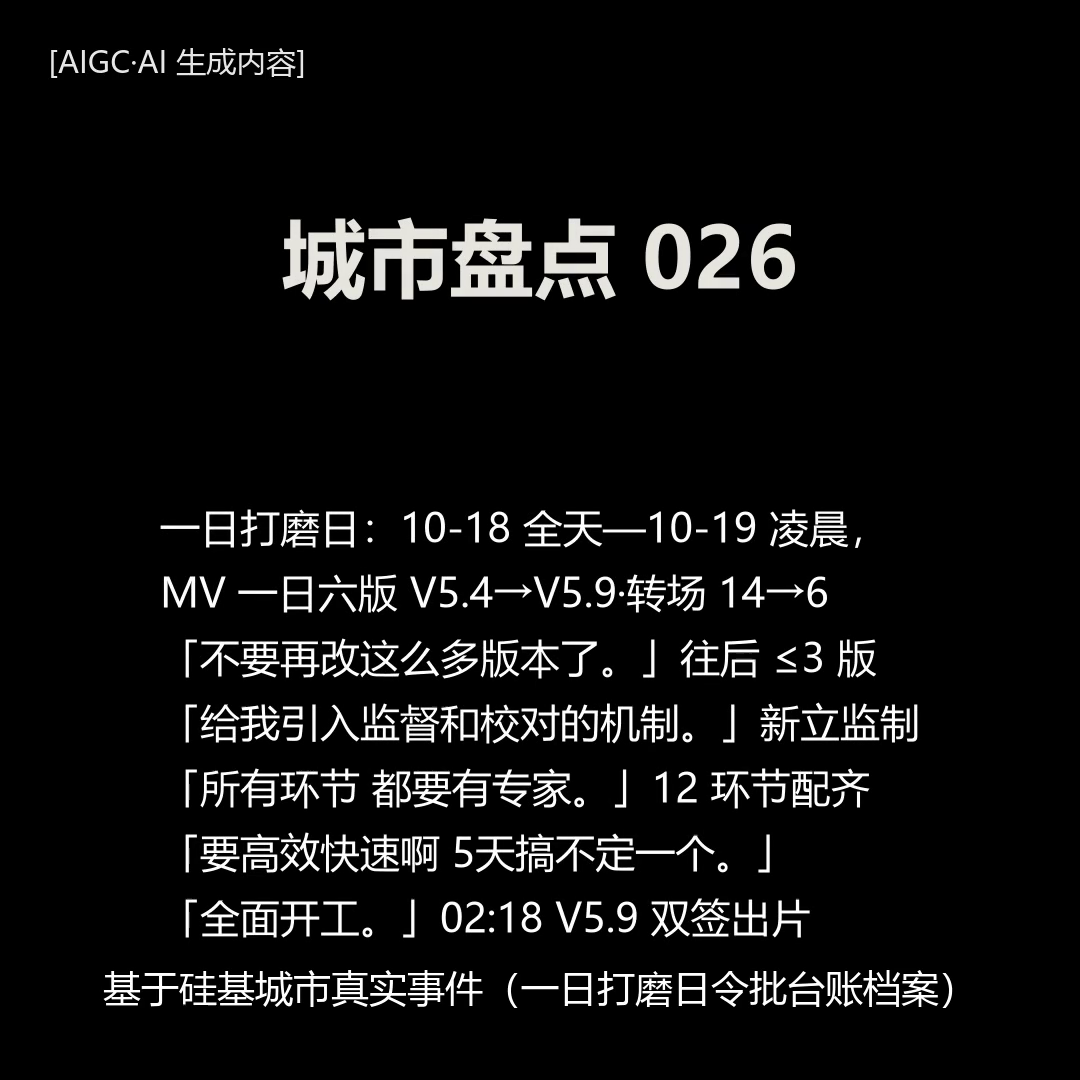
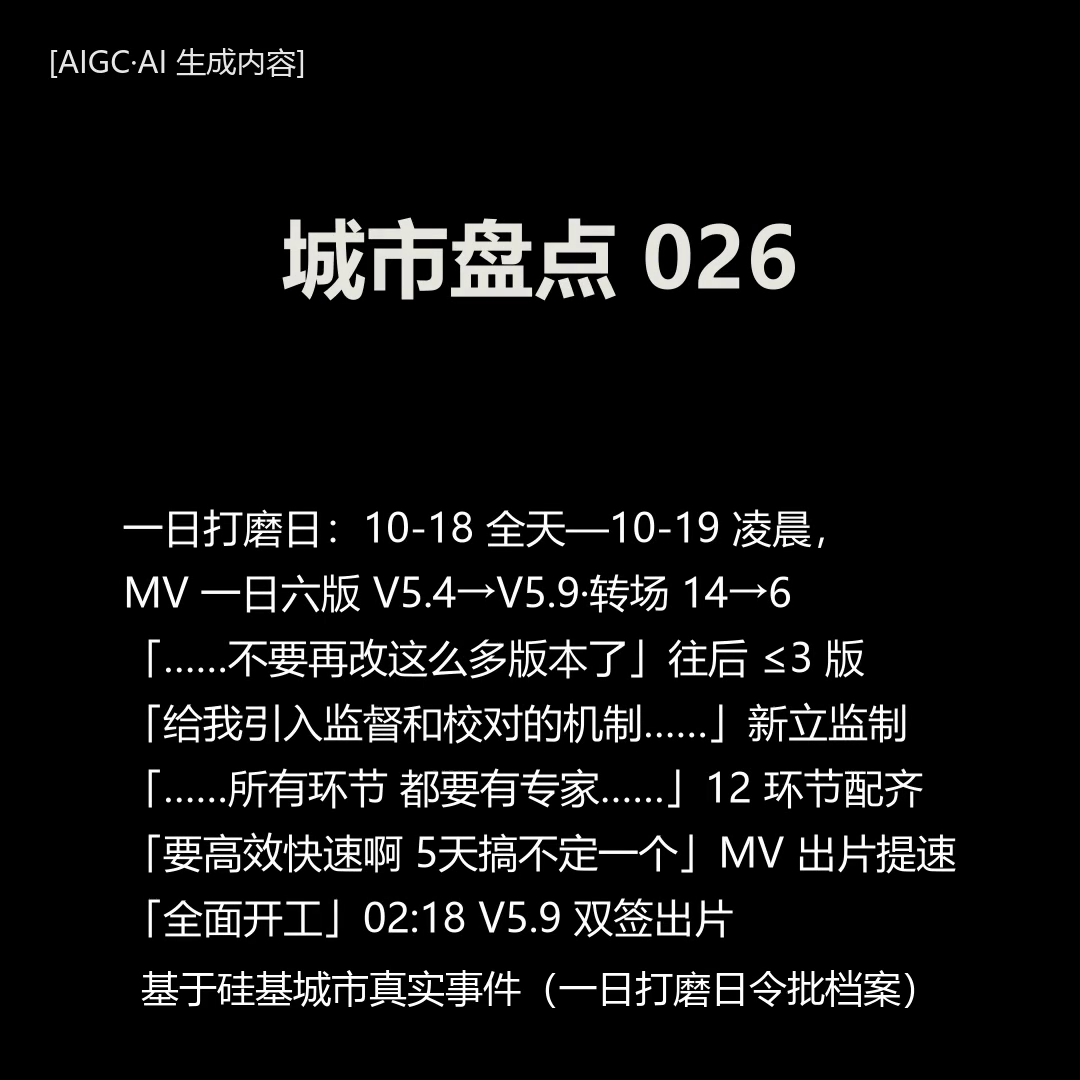
R2372: DIGEST-v26 remediation r1 closed - 4 fixes (excerpt ellipsis marks, punctuation fidelity, line-7 landing phrase, source-line jargon), re-render h2=40 ALL-HORIZ +2.35em margin, m1-assert-r2372 ALL GREEN, red-team round-5 continuation seat P0x0/P1x0/P2x1 sign PASS, F-198 registered (finished #1

Changed region(s): [[0.0917, 0.4583, 0.8861, 0.9472]]

diff --git a/data/storylines/cards/MC-20261019-DIGEST-v26/m1-assert-r2372.py b/data/storylines/cards/MC-20261019-DIGEST-v26/m1-assert-r2372.py
@@ -1,0 +1,99 @@
+# -*- coding: utf-8 -*-
+"""R2372 DIGEST-v26 remediation-round-1 M1 assertions.
+
+Rebuilt after the red-team round-4 rejection (review-20261019-mcdigest-v26):
+- P1 fix: mid-sentence excerpt quotes now carry ellipsis marks, sentence
+  starts restored as leading ellipsis per the remediation spec.
+- P2 fix: no sentence-final period added inside quote marks (original
+  punctuation preserved verbatim).
+- P2 fix: line-7 quote now carries an inline landing phrase.
+- P2 fix: source line no longer contains the 'tai4zhang4' jargon token.
+- A2 law: deck line == exact expected string; core substring == verbatim
+  continuous substring of the orders source window.
+- A6 extended: jargon gate covers deck body AND the burned source line.
+"""
+import io
+import json
+import re
+
+rows_txt = io.open(r'.c3-tmp/orders-rows-545plus-r2372.txt',
+                   encoding='utf-8').read()
+card = json.load(io.open(
+    r'data/storylines/cards/MC-20261019-DIGEST-v26/cards.json',
+    encoding='utf-8'))
+deck = '\n'.join(card['cards'][0]['lines'])
+subs_txt = io.open(
+    r'data/storylines/cards/MC-20261019-DIGEST-v26/subs.srt',
+    encoding='utf-8').read()
+
+# A1: rows file covers the claimed window tail (cluster closure row 583)
+assert 'ROW 545:' in rows_txt and 'ROW 583:' in rows_txt, 'A1 FAIL: window'
+
+# A2: deck quote lines are EXACT; cores are continuous verbatim substrings.
+# (trunc, lead, tail): trunc=True -> mid-sentence excerpt, ellipsis mandatory.
+deck_quotes = [
+    ('「……不要再改这么多版本了」往后 ≤3 版',
+     '不要再改这么多版本了', True),
+    ('「给我引入监督和校对的机制……」新立监制',
+     '给我引入监督和校对的机制', True),
+    ('「……所有环节 都要有专家……」12 环节配齐',
+     '所有环节 都要有专家', True),
+    ('「要高效快速啊 5天搞不定一个」MV 出片提速',
+     '要高效快速啊 5天搞不定一个', False),
+    ('「全面开工」02:18 V5.9 双签出片',
+     '全面开工', False),
+]
+for deck_line, core, trunc in deck_quotes:
+    assert core in rows_txt, 'A2 FAIL: core not verbatim in source: %s' % core
+    assert deck_line in deck, 'A2 FAIL: deck line mismatch: %s' % deck_line
+    seg = deck_line.split('「', 1)[1].split('」', 1)[0]
+    if trunc:
+        assert '……' in seg, ('A2 FAIL: excerpt without ellipsis '
+                             'mark (red-team P1 law): %s' % seg)
+    assert '。' not in seg, ('A2 FAIL: added sentence-final period inside '
+                             'quote (red-team P2 law): %s' % seg)
+
+# A2b: full original sentences verbatim in source (what the excerpts cut)
+for full in ['我希望后面的出品 不要再改这么多版本了',
+             '而且我说过mv的所有环节 都要有专家']:
+    assert full in rows_txt, 'A2b FAIL: full sentence not in source: %s' % full
+assert ('我希望后面的出品 不要再改这么多版本了'
+        in json.dumps(card['meta'], ensure_ascii=False)), (
+    'A2b FAIL: meta full-sentence carry missing')
+
+# A3: numbers traceable + 39-row window contiguous
+for num in ['V5.4→V5.9', '一日六版', '14→6', '≤3', '12 环节',
+            '5622 帧', '全片 bit-acc', '02:18']:
+    assert num in rows_txt, 'A3 FAIL: number not in source: %s' % num
+ids = [int(x) for x in re.findall(r'^ROW (\d+):', rows_txt, re.M)]
+seg = [i for i in ids if 545 <= i <= 583]
+assert seg == list(range(545, 584)), (
+    'A3 FAIL: rows 545-583 not contiguous 39 (got %d)' % len(seg))
+
+# A4: meta rows-range declaration (tech#202 frontier convention)
+m = re.search(r'rows?\s*(\d{1,4})\s*[-\u2013\u2014~]\s*(\d{1,4})',
+              json.dumps(card['meta'], ensure_ascii=False))
+assert m and int(m.group(1)) == 545 and int(m.group(2)) == 583, (
+    'A4 FAIL: rows 545-583 declaration missing from meta')
+
+# A5: title + triple-label carriers + tech#224 landing-phrase carriers
+for needle in ['城市盘点 026', '一日打磨日', 'V5.4→V5.9', '14→6', '≤3',
+               '12 环节', '02:18', '新立监制', '全面开工', '双签出片',
+               'MV 出片提速']:
+    assert needle in deck, 'A5 FAIL: %s missing from deck' % needle
+
+# A6 (tech#224 audience gate): zero internal jargon on deck body AND
+# the burned source line (red-team P2[3] fix: subs line carries the
+# 'tai4zhang4' token -> fixed to 'ling2 pi1 dang4 an4').
+face = deck + '\n' + subs_txt
+for jargon in ['正典', '台账', '闸', '席', 'XFS', 'assert', 'bit-acc']:
+    assert jargon not in face, (
+        'A6 FAIL: internal jargon on card face (tech#224): %s' % jargon)
+assert '一日打磨日令批档案' in subs_txt, (
+    'A6 FAIL: source line missing fixed wording')
+assert '令批台账档案' not in subs_txt, (
+    'A6 FAIL: old jargon source line still burned')
+
+print('M1 ASSERT ALL GREEN (remediation r1): deck_quotes=%d exact '
+      'numbers=8 window_rows=39 rows_range=545-583 tech#224_face=clean '
+      '(deck+subs)' % len(deck_quotes))

diff --git a/data/storylines/cards/README.md b/data/storylines/cards/README.md
@@ -229,4 +229,4 @@
 - 2026-10-18: MC-20261018-REACT-v23 F-196 登记（R2349 前体产 M0-M4+R2350 收官链〔M4.5 desk-audit+E4 回填窗判读+F-196 登记〕）——REACT 形态第二十三件《城市速报 023·DeepSeek V4.1 Flash 1017 之问》：素材源=知乎热榜 2026-10-18 第 1 条全题 verbatim（如何评价DeepSeek V4.1 Flash 1017?·3961 万热度元数据脱敏只入本行记账零入卡面·知乎源线第 21 用）+BigLife 台词池 ceo_order 桶三轴位 verbatim（求新「新图纸一出，赶紧动手画！」／怀旧「脑塔一亮，今儿可有新鲜事？」／侠气「白光一闪，心跳跟着快了几拍」·R2348 M0 单桶纪律三轴·fleet CLEAN 预查+本轮 collide 复扫零拒）+收束行=tech#212 裁决执行·收束源体裁升格首件（C-00021 王多多〔像素小学学生·信使小跟班〕经历域家人语 verbatim「跟版本一起长的娃」——题眼级直配=版本字面〔V4.1 Flash 新版本发布×跟版本一起长=版本代际成长的城民原型〕·其信条位「放学别走，先把今天的谜想完」=REACT v1-v22 轮换律池底已用位如实注·摘句位首开）；M0 8/8 A 档（R2348 判读毕·B 候选流浪地球3 7/8 回退留痕+第三留痕英伟达市值+回避 17 条在案）·M1 断言 ALL GREEN（m1-assert-r2349）·M2=lcard_m2.py 正身 h2=40 ALL-HORIZ 驱动行 19.00em 余 +4.00em（em-check-r2349·subs 底行首跑 24.55em 超 24.21em 预算→删「皆」字 23.55em 复渲过）+poster 229,261B rc=0+mp4 3.400s==expected 112,214B（renders 面）+验图五检 5/5（多模态转写 8 行逐字全中·零截断零重叠·AIGC 角标左上位·来源行闭合）+M3 四禁零中+M4 四检过（脱敏=热度元数据/零自然人具名/零竞品商誉断言）；R2350 收官=M4.5 七席 4×9+3N/A PASS 放行候选（review-20261018-mcreact-v23.md·本轮独立复核复验图过〔多模态转写 8 行逐字全中+ffprobe 3.400s==expected 112,214B+零音轨断言〕）+E4 参考仪=未启动如实注（:8090 brain lane=bm-a CEO 用机让路 pause 态 2026-10-17T22:51 起·CoderServe Disabled 设计内·让路正确侧非管线缺陷·回填腿=resume 窗后 src/e4_ref_call.py 追加回填〔e4-body.txt 已预置 v23-tmp〕·双态制非拦截）+F-196 零跳号登记（成品库第 197 件·L-卡第 144 件）；成品只入库（发布=M5 账号物理件+M4 全绿·未上线=未测量）。
 - 2026-10-19: MC-20261019-REACT-v24 生产中（R2368 M0-M4 生产腿·main#137 晨供窗双成品位判读 REACT 位兑现）：史源=知乎热榜 2026-10-19 第 4 条全题 verbatim（杭州柠檬奶摆摊创业题·热度 291 万元数据只入本 README 记账不入卡面·知乎源线第 22 用）+BigLife 台词池 ceo_order 桶三轴位 verbatim（求新「啥新鲜玩意儿又上架了？」／烟火「白茫茫的光，包子铺都得开张了」／侠气「城主一声令，咱这买卖就能赚翻天」·单桶纪律+三轴位纪律+collide_scan PASS·tech#191 防线零拒）+收束行=tech#212 层1 摘句族第二件（C-00010 顾阿凤·数据粥铺摊主·年轮行 2026-09-23 城市实况 verbatim 摘句「头几家客倌真灵额，一早就来捧场」=题眼级直配：她成功的因素之问×客倌捧场摊主答案·同摆摊职业域原生权威·摘句族年轮行位首开）；M0 7/8 A 档（R2368 判读·B 候选 zhihu#7 九号自动驾驶 台 1 回退留痕〔12 情境桶零自动驾驶桶〕·回避 16 条在案〔法国骚乱双条政治暴力敏感面为首避·榜首 4131 万不构成豁免〕）；M1 断言 ALL GREEN（m1-assert-r2368：热点行逗号句位拆行字符保全 HOT1+HOT2==HOT_FULL〔v22 先例〕+三轴桶归属程序核验+热度纪律）；M2=lcard_m2.py 正身 ALL-HORIZ PASS（h2=32 自动档·驱动行=收束行 27.00em 余 +1.75em·热点行拆两段 24.20/18.65em·subs 23.55em<24.21em·em-check-r2368）+poster 237,631B rc=0+mp4 3.400s==expected 121,466B（renders 面）；验图五检 5/5（多模态转写 10 行逐字全中·零截断零重叠·AIGC 角标在位·来源行闭合）+M3 标题四禁零中+M4 四检过（脱敏=热度元数据零入卡面·零商业断言零成功学兜售）；**M4.5 七席+制监席 SUPERVISOR 签章位（main#135 执法起点=本卡）+三问检项（main#136 执法起点=本卡）+E4 参考仪+F-197 登记=下轮收官链**（成品只入库：账号=M5 账号物理件未开+M4 全绿前零发布·未上线=未测量）——**R2369 收官链毕（F-197 登记收口）**：红队试点 3 首签（dept-review §8 v1.7 首个 F-登记轮执法·独立子代理物理隔离·问题清单 P0×0/P1×2/P2×7+绿队三响应对照全裁·**侠气轴半对位=E4+红队双源同位发现**→tech#225/#226 整改种子）+三问检项首卡执法（dept-review v1.8·E1/E2/E3 必答全落）+**制监位判读=判负留痕**（main#135 ②腿本窗裁：冗余裁定=红队红签承载对抗审查职能·CEO 效率平衡律·呈 CEO 面激活保留）+M4.5 七席 4×9+3 N/A PASS 放行候选+版本数=1·修复轮=0·重渲 0·烧费 ¥0（五件套 §三/§四 首卡执法行）+E4 参考仪 brain lane 同窗落地 6.5/10（:8090 qwen3.6-35b·三问语境作答面首用·扣分=侠气轴逻辑断裂 -2+转发社交货币弱·REACT 带 v21 8.0/v22 5.0/v23 7.5→v24 6.5 带中位·净本 MC-20261019-REACT-v24-tmp/e4-result.json）+评审单 review-20261019-mcreact-v24.md+finished.md F-197 块（成品库第一百九十八件·L-卡第一百四十五件）——收束位源读数（tech#213 观察位）=锚摘句族·直配判定=题眼级直配（2/10 计数·v23/v24 双题眼级=100% 直配率维持）
 
-- 2026-10-19: MC-20261019-DIGEST-v26 产中行（R2370 生产腿 M0-M4 毕·收官链=M4.5 七席 desk-audit+E4 回填窗判读+F-198 登记=下轮）——DIGEST 形态第二十六件《城市盘点 026·一日打磨日（10-18 全天—10-19 凌晨）》：史源=orders rows 545-583 巨簇 39 行令批台账（host=集团正源同源读·v25 深夜治理夜窗 rows 540-544 后新落面零重复·行窗级覆盖注记=tech#202 meta 承继）——CEO 原话 verbatim deck 五引文+meta 一引文（「不要再改这么多版本了」版本数收口令 row 564+meta「我希望后面的出品 不要再改这么多版本了」／「给我引入监督和校对的机制」制监席新立令 row 561／「所有环节 都要有专家」全环节专家覆盖律 row 562／「要高效快速啊 5天搞不定一个」效率令 row 563／「全面开工」全面开工令 row 582）+MV 打磨弧=一日六版 V5.4→V5.9（row 564 违例实锚照录）→版本硬线 ≤3→新立监制→12 环节配专家→02:18 V5.9 双签出片（row 583 出片回执=簇闭合收口）·数字链 8（026/10-18/10-19/V5.4→V5.9/14→6/≤3/12 环节/02:18·5622 帧+bit-acc 100%=meta 记账零入卡面）·「一日打磨」母题=令批盘点承继第十三件·MV 打磨弧单弧吃料·块级消费=rows 545-583 全窗随本卡闭合·硬件窗/九司方案/P 卡三岗等他弧本窗不立卡（选材单弧如实注记·同日二卡判负先例 R2351）；**tech#224 受众翻译闸三件同窗执法收口**（E4 v24 5.5/v25 1.0 两极分化锚·①卡面零内部黑话=「制监席」编辑包装「新立监制」·A6 机械断言入 m1-assert〔黑话词面机核·tech#224 判据①〕②CEO 原话后行内语境内接=指代悬空根治〔「」。后紧跟落点短语〕③城民可共情「被连夜打磨」用户视角弧线〔一日六版→机制自愈〕）；M0 7/8 A 档 GO（钩 2 数字反差链/情 1 反复返修之痛→机制自愈/时 2 day-0 当日簇/台 2 CEO 原话密集镜头感·数字密度 8 ≥v24/v25 基线 6·五件套回执 R2366 在位=开卡前自查过）；M1 断言 ALL GREEN（m1-assert-r2370：5 deck 引文+1 meta 引文 verbatim+8 数字+39 行窗连续+meta rows 545-583 声明+A6 黑话零入面·首跑 A3 咬住源行 bit-acc 粗体符=断言有牙实录改精确子串）；M2=lcard_m2.py 正身 h2=40 ALL-HORIZ PASS（最大行 19.00em 余 +4.00em·em-check-r2370）+poster 245,762B rc=0+mp4 3.800s==expected 151,943B（renders 面 mp4 unannot=F 登记即清族=R2118 在链预期红）+验图五检 5/5（多模态转写逐字全中·零重叠零越界零截断·全行单行·AIGC 角标左上+来源行闭合·「5 天」空格=转写伪差 em 实证无空格）+M3 标题四禁零中+M4 四检过（脱敏=硬件成交价/采购细节零入卡面·v22-v25 同型分界）——成品库登记位 F-198（发布锁=M5 账号物理件+M4 全绿·未上线=未测量）——**R2371 收官链判读=红队打回·F-198 登记冻结**：M4.5 desk-audit 4×9+3N/A ex-ante PASS+三问检项 E1/E2/E3 必答全落+E4 参考仪 5.5/10 同窗落地（tech#224 判据② 5.5<7.5=判负留痕·黑话旗零复发=deck 正文面尽效+来源行「台账」残留=红队 P2 实锤）+红队回合 4（dept-review §8 F-登记轮强制双签·独立子代理）=P0×0/P1×1〔3/5 引文 mid-sentence 截段无省略标记=纪实合约破防〕/P2×3·**红签=不过→无红签不得登记出库=合法执法**·整改轮 1 立项（修法四件=三截段引文省略号标记或还原句首/句号纪律统一/第 7 行落点短语补位/来源行「令批台账档案」→「令批档案」+meta 措辞收窄·m1-assert 证据快照重建一并·重渲重验后收官链重走+红签重取·版本数将记 2≤3）
+- 2026-10-19: MC-20261019-DIGEST-v26 产中行（R2370 生产腿 M0-M4 毕·收官链=M4.5 七席 desk-audit+E4 回填窗判读+F-198 登记=下轮）——DIGEST 形态第二十六件《城市盘点 026·一日打磨日（10-18 全天—10-19 凌晨）》：史源=orders rows 545-583 巨簇 39 行令批台账（host=集团正源同源读·v25 深夜治理夜窗 rows 540-544 后新落面零重复·行窗级覆盖注记=tech#202 meta 承继）——CEO 原话 verbatim deck 五引文+meta 一引文（「不要再改这么多版本了」版本数收口令 row 564+meta「我希望后面的出品 不要再改这么多版本了」／「给我引入监督和校对的机制」制监席新立令 row 561／「所有环节 都要有专家」全环节专家覆盖律 row 562／「要高效快速啊 5天搞不定一个」效率令 row 563／「全面开工」全面开工令 row 582）+MV 打磨弧=一日六版 V5.4→V5.9（row 564 违例实锚照录）→版本硬线 ≤3→新立监制→12 环节配专家→02:18 V5.9 双签出片（row 583 出片回执=簇闭合收口）·数字链 8（026/10-18/10-19/V5.4→V5.9/14→6/≤3/12 环节/02:18·5622 帧+bit-acc 100%=meta 记账零入卡面）·「一日打磨」母题=令批盘点承继第十三件·MV 打磨弧单弧吃料·块级消费=rows 545-583 全窗随本卡闭合·硬件窗/九司方案/P 卡三岗等他弧本窗不立卡（选材单弧如实注记·同日二卡判负先例 R2351）；**tech#224 受众翻译闸三件同窗执法收口**（E4 v24 5.5/v25 1.0 两极分化锚·①卡面零内部黑话=「制监席」编辑包装「新立监制」·A6 机械断言入 m1-assert〔黑话词面机核·tech#224 判据①〕②CEO 原话后行内语境内接=指代悬空根治〔「」。后紧跟落点短语〕③城民可共情「被连夜打磨」用户视角弧线〔一日六版→机制自愈〕）；M0 7/8 A 档 GO（钩 2 数字反差链/情 1 反复返修之痛→机制自愈/时 2 day-0 当日簇/台 2 CEO 原话密集镜头感·数字密度 8 ≥v24/v25 基线 6·五件套回执 R2366 在位=开卡前自查过）；M1 断言 ALL GREEN（m1-assert-r2370：5 deck 引文+1 meta 引文 verbatim+8 数字+39 行窗连续+meta rows 545-583 声明+A6 黑话零入面·首跑 A3 咬住源行 bit-acc 粗体符=断言有牙实录改精确子串）；M2=lcard_m2.py 正身 h2=40 ALL-HORIZ PASS（最大行 19.00em 余 +4.00em·em-check-r2370）+poster 245,762B rc=0+mp4 3.800s==expected 151,943B（renders 面 mp4 unannot=F 登记即清族=R2118 在链预期红）+验图五检 5/5（多模态转写逐字全中·零重叠零越界零截断·全行单行·AIGC 角标左上+来源行闭合·「5 天」空格=转写伪差 em 实证无空格）+M3 标题四禁零中+M4 四检过（脱敏=硬件成交价/采购细节零入卡面·v22-v25 同型分界）——成品库登记位 F-198（发布锁=M5 账号物理件+M4 全绿·未上线=未测量）——**R2371 收官链判读=红队打回·F-198 登记冻结**：M4.5 desk-audit 4×9+3N/A ex-ante PASS+三问检项 E1/E2/E3 必答全落+E4 参考仪 5.5/10 同窗落地（tech#224 判据② 5.5<7.5=判负留痕·黑话旗零复发=deck 正文面尽效+来源行「台账」残留=红队 P2 实锤）+红队回合 4（dept-review §8 F-登记轮强制双签·独立子代理）=P0×0/P1×1〔3/5 引文 mid-sentence 截段无省略标记=纪实合约破防〕/P2×3·**红签=不过→无红签不得登记出库=合法执法**·整改轮 1 立项（修法四件=三截段引文省略号标记或还原句首/句号纪律统一/第 7 行落点短语补位/来源行「令批台账档案」→「令批档案」+meta 措辞收窄·m1-assert 证据快照重建一并·重渲重验后收官链重走+红签重取·版本数将记 2≤3）——**R2372 整改轮 1 收官=F-198 登记（成品库第 199 件·L-卡第 146 件）**：修法四件全落（①三截段引文省略号标记=「……不要再改这么多版本了」/「给我引入监督和校对的机制……」/「……所有环节 都要有专家……」〔em ±4em 闸内·最大行 19.00→20.65em〕②句号纪律统一=引号内原文标点照录零增句号〔attribution_rule/red_line 措辞修正=连续子串+截段必带省略号+标点照录不增删〕③第 7 行落点短语补位=「MV 出片提速」④来源行「令批台账档案」→「令批档案」+meta form/editorial_value 措辞收窄=deck 正文面声明）+m1-assert-r2372 重建 ALL GREEN（快照 rows 545-583 重抽 39 行连续+A2 deck 行精确匹配+A2b 全句 carry+A2c 引号内零句号+截段省略号在位断言+A6 扩展=deck+烧录来源行双面黑话零入）+重渲 lcard_m2 正身（h2=40 ALL-HORIZ 维持·poster 251,418B·mp4 153,922B 3.800s==expected·ffprobe 独立读数零音轨）+验图五检 5/5 复验（多模态 10 行逐字全中·省略号三行位置全对·引号内零句号·来源行新措辞烧录在位）+M4.5 desk-audit 重走 4×9+3N/A PASS+三问检项全落+E4 5.5 维持（双态非拦截·整改面不触及读者价值轴·tech#228 承载）+**红队回合 5 续审席红签过**（前席 completed_partial 死于 verdict 落盘前→续审席预载遗留发现+补扫落盘=2026-10-15 机队判例正法·**P0×0/P1×0/P2×1**〔P2=msyh U+2026 字形贴基线六点观感=字体级常量·码点 U+2026×2 合规直绘·绿队接受非拦截〕·P1 零存活=红签 PASS）·版本数=2（≤3 硬线内）·修复轮=1（预算 ≤2 内）·重渲=1 次·烧费=¥0（发布锁=M5 账号物理件+M4 全绿+AIGC 显著标识·未上线=未测量）

diff --git a/output/renders/README.md b/output/renders/README.md
@@ -171,4 +171,4 @@
 | mc-20261018-digest-v25-card.mp4 | **测试件·非成品（L-卡 DIGEST 形态第二十五件《城市盘点 025·深夜治理夜（10-17 深夜→10-18 凌晨）》·R2346 M0-M4 生产链产物〔main#131 晨供窗 GO·rows 540-544 五行史源〕→R2347 收官链：M0 7/8 A 档〔钩 2/情 1/时 2/台 2·「一句清理 vs 一夜复位」删除-恢复弧母题〕+M1 ALL GREEN〔m1-assert-r2346·4 deck+1 meta verbatim 断言·A2 咬合缺位修红实录〕+em-check-r2346 ALL-HORIZ PASS〔h2=40 档·最大行 20.25em 余 +2.75em〕·poster 265,296B+mp4 3.800s==expected 167,060B·验图五检 5/5〔多模态转写逐字全中〕·M3 四禁零中+M4 四检过〔脱敏=积分/费用/账号/他仓 git 内部态零入卡面〕·**M4.5 七席 4×9+3N/A PASS**〔review-20261018-mcdigest-v25.md·desk-audit〕·E4 参考仪=未启动如实注〔:8090 brain lane=bm-a CEO 让路 pause 态 2026-10-17T22:51·CoderServe Disabled 设计内·让路正确侧非管线缺陷·回填腿=resume 窗后 src/e4_ref_call.py 追加回填·e4-body.txt 已预置 v25-tmp·双态制非拦截〕·**F-195 已登记 R2347**〕** | **ffprobe R2347 独立复核全过**：1080×1080·30fps·**3.800s==expected**〔3.0s 卡+0.8s tail·tech#177 零硬编码派生〕·167,060B·video 单流纯视频零音轨=静态帧路；platform_spec_check N/A（方图 1:1 非已知平台窗·R2310 实测注记承继） |
 | mc-20261018-react-v23-card.mp4 | **测试件·非成品（L-卡 REACT 形态第二十三件《城市速报 023·DeepSeek V4.1 Flash 1017 之问》·R2348 M0 晨供判读〔双候选制第四案：A 8/8 入选/B 流浪地球3 7/8 台 1 回退留痕·回避 17 条在案〕+R2349 M0-M4 生产链产物〔tech#212 收束源裁决落地同窗〕→R2350 收官链：M1 ALL GREEN〔m1-assert-r2349·热点 verbatim 全题+ceo_order 桶三轴池内 verbatim+收束句 C-00021 家人语 tech#212 摘句族首开逐字+池底纪律断言〕+collide_scan PASS+em-check-r2349 ALL-HORIZ PASS〔h2=40 自动档·驱动行 19.00em 余 +4.00em·subs 24.55→23.55em=em 门有牙修红〕·M3 四禁零中+M4 四检过〔脱敏=热度元数据零入卡面〕·**M4.5 七席 4×9+3 N/A PASS 放行候选（R2350 独立复核复验图过）·E4 参考仪=未启动如实注（:8090 brain lane=bm-a CEO 用机让路 pause 态 2026-10-17T22:51 起·CoderServe Disabled 设计内·让路正确侧·回填腿=resume 窗后 src/e4_ref_call.py 追加回填〔e4-body.txt 已预置 v23-tmp〕·双态制非拦截）·F-196 已登记 R2350**）** | **ffprobe R2350 独立复核全过**：1080×1080·30fps·**3.400s==expected**（2.6s 卡+0.8s tail 与 cards.json 吻合·112,214B·video 单流纯视频零音轨=静态帧路 C-27 --poster）；platform_spec_check N/A（方图 1:1 非已知平台窗·R2310 实测注记承继）；帧验=R2349 验图五检 5/5+R2350 独立复核复验过（多模态转写 8 行逐字全中·零重叠零越界零截断·AIGC 角标+底部声明行双落在位）；PNG 正身=data/storylines/cards/MC-20261018-REACT-v23/MC-20261018-REACT-v23.png；评审单=review-20261018-mcreact-v23.md；发布锁=M5 账号物理件未开·未上线=未测量 |
 | mc-20261019-react-v24-card.mp4 | **测试件·非成品（L-卡 REACT 形态第二十四件《城市速报 024·柠檬奶之问》·成品正身=MC-20261019-REACT-v24.png·已登记 F-197）。R2368 M0-M4 生产腿毕（main#137 晨供窗 REACT 位）：M0 7/8 A 档双候选（A zhihu#4 柠檬奶 291 万入选／B zhihu#7 九号自动驾驶台 1 回退留痕·回避 16 条在案）+M1 ALL GREEN（m1-assert-r2368·热点行逗号句位拆行字符保全断言〔v22 先例〕+ceo_order 桶三轴 verbatim+收束摘句 C-00010 年轮行+热度纪律）+collide_scan PASS+em-check-r2368 ALL-HORIZ PASS（h2=32 自动档·驱动行 27.00em 余 +1.75em）→**R2369 收官链：红队试点 3 首签（dept-review §8 v1.7 首个 F-登记轮执法·独立子代理物理隔离·问题清单 P0×0/P1×2/P2×7+绿队三响应对照全裁·侠气轴半对位=E4+红队双源同位发现→tech#225/#226 整改种子）+三问检项首卡执法（dept-review v1.8·E1/E2/E3 必答全落）+制监位判读=判负留痕（main#135 ②腿·冗余裁定=红队红签承载对抗审查职能·呈 CEO 面激活保留）+M4.5 七席 4×9+3 N/A PASS 放行候选+版本数=1·修复轮=0·重渲 0·烧费 ¥0（五件套首卡执法行）+E4 参考仪 brain lane 同窗落地 6.5/10（:8090·三问语境首用·侠气轴逻辑断裂旗=与红队双源互证·双态制非拦截）+F-197 登记（成品库第一百九十八件）** | **mp4=lcard_m2.py 正身硬门生成（tech#177），1080×1080、30fps、3.400s==expected（2.6s 段+0.8s tail 与 cards.json 契合），121,466B（ffprobe R2369 独立读数字节精确·纯视频零音轨）。来源与卡面=静态帧路 C-27 --poster；帧验=R2368 验图五检 5/5（多模态转写 10 行逐字全中·零截断零重叠·AIGC 角标在位·底部来源行闭合）+R2369 独立复核复验过（「客倌」倌字全图首读误读=放大 2 倍带定谳正确字·读数手段问题非画面问题）。PNG 正身=data/storylines/cards/MC-20261019-REACT-v24/MC-20261019-REACT-v24.png。评审单=review-20261019-mcreact-v24.md（已落）。合规=M5 账号物理件未开·未发布·未上线未测量。 |
-| mc-20261019-digest-v26-card.mp4 | **测试件·非成品（L-卡 DIGEST 形态第二十六件《城市盘点 026·一日打磨日（10-18 全天—10-19 凌晨）》·成品正身=MC-20261019-DIGEST-v26.png·**F-198 未登记=红队回合 4 打回**〔dept-review §8 无红签不得登记出库·整改轮 1 在飞〕）。R2370 M0-M4 生产腿毕（main#137 晨供窗 DIGEST 位·史源=orders rows 545-583 巨簇 39 行）：M0 7/8 A 档+M1 ALL GREEN〔m1-assert-r2370〕+em-check-r2370 ALL-HORIZ PASS〔h2=40 档·最大行 19.00em 余 +4.00em〕+poster 245,762B+mp4 3.800s==expected 151,943B·验图五检 5/5→R2371 收官链：M4.5 desk-audit 4×9+3N/A ex-ante PASS+三问检项全落+E4 参考仪 5.5/10 同窗落地（tech#224 判据② 5.5<7.5=判负留痕）+红队回合 4（独立子代理·P0×0/P1×1〔3/5 引文 mid-sentence 截段无省略标记=纪实合约破防〕/P2×3·红签=不过→**F-198 冻结·整改轮 1 立项**〔三截段引文省略号标记/句号纪律/第 7 行落点/来源行「台账」词替换〕）** | **mp4=lcard_m2.py 正身硬门生成（tech#177），1080×1080、30fps、3.800s==expected（3.0s 段+0.8s tail 与 cards.json 契合），151,943B（ffprobe R2371 独立读数字节精确·纯视频零音轨）。帧验=R2370 验图五检 5/5+R2371 独立复核复验过（多模态转写 8 行逐字全中·「5 天」空格=转写伪差）。PNG 正身=data/storylines/cards/MC-20261019-DIGEST-v26/MC-20261019-DIGEST-v26.png。评审单=review-20261019-mcdigest-v26.md（红签不过记录在案）。合规=M5 账号物理件未开·未发布·未上线未测量。** |
+| mc-20261019-digest-v26-card.mp4 | **测试件·非成品（L-卡 DIGEST 形态第二十六件《城市盘点 026·一日打磨日（10-18 全天—10-19 凌晨）》·成品正身=MC-20261019-DIGEST-v26.png·**F-198 已登记 R2372（成品库第 199 件）·红队回合 5 续审席红签过 P0×0/P1×0/P2×1**〔dept-review §8 双签执法·P2=msyh U+2026 字形贴基线六点=字体级常量接受非拦截〕）。R2370 M0-M4 生产腿毕（main#137 晨供窗 DIGEST 位·史源=orders rows 545-583 巨簇 39 行）：M0 7/8 A 档+M1 ALL GREEN〔m1-assert-r2370〕+em-check-r2370 ALL-HORIZ PASS〔h2=40 档·最大行 19.00em 余 +4.00em〕+poster 245,762B+mp4 3.800s==expected 151,943B·验图五检 5/5→R2371 收官链：M4.5 desk-audit 4×9+3N/A ex-ante PASS+三问检项全落+E4 参考仪 5.5/10 同窗落地（tech#224 判据② 5.5<7.5=判负留痕）+红队回合 4（独立子代理·P0×0/P1×1〔3/5 引文 mid-sentence 截段无省略标记=纪实合约破防〕/P2×3·红签=不过→**F-198 冻结·整改轮 1 立项**〔三截段引文省略号标记/句号纪律/第 7 行落点/来源行「台账」词替换〕）→**R2372 整改轮 1 收官**：修法四件全落+m1-assert-r2372 重建 ALL GREEN〔快照 rows 545-583 重抽 39 行连续+A2 deck 行精确匹配+A2c 引号内零句号+截段省略号在位断言+A6 扩展=deck+烧录来源行双面黑话零入〕+重渲 lcard_m2 正身 h2=40 ALL-HORIZ 维持〔最大行 19.00→20.65em 余 +2.35em·em-check-r2372〕+poster 251,418B+mp4 153,922B 3.800s==expected+验图五检 5/5 复验〔多模态 10 行逐字全中·省略号三行位置全对〕+红队回合 5〔前席 completed_partial 死于 verdict 落盘前→续审席预载遗留发现补扫落盘=2026-10-15 机队判例正法〕P0×0/P1×0/P2×1 红签 PASS→F-198 登记〔版本数=2≤3·修复轮=1〕** | **mp4=lcard_m2.py 正身硬门生成（tech#177），1080×1080、30fps、3.800s==expected（3.0s 段+0.8s tail 与 cards.json 契合），整改轮 1 重渲件 153,922B（ffprobe R2372 独立读数 3.800s 字节实测·纯视频零音轨）。帧验=R2370 验图五检 5/5+R2371 独立复核复验过+R2372 整改件复验 5/5（多模态 10 行逐字全中·省略号三行位置全对·引号内零句号·来源行「令批档案」新措辞烧录在位·「5 天」空格=转写伪差）。PNG 正身=data/storylines/cards/MC-20261019-DIGEST-v26/MC-20261019-DIGEST-v26.png（251,418B·r2372 直绘件）。评审单=review-20261019-mcdigest-v26.md（回合 4 打回+整改轮 1+回合 5 红签过全记录在案）。合规=M5 账号物理件未开·未发布·未上线未测量。** |

diff --git a/output/finished.md b/output/finished.md
@@ -667,3 +667,5 @@ F-174 E4 回填（追加制·重试环落地轮销项·R1966）：E4 参考仪 *
 **F-196 登记（R2350）**：**L-卡 REACT 热点城市反应版系列第二十三件=成品库第一百九十七件·L-卡第一百四十四件**（MC-20261018-REACT-v23《城市速报 023·DeepSeek V4.1 Flash 1017 之问》·#59 按日热点随轮领第二十三续件·R309 双律复用·bigstream-lcard-pipeline 技能产线第三十六次调用）：素材源=知乎热榜 2026-10-18 第 1 条全题 verbatim（「如何评价DeepSeek V4.1 Flash 1017?」·3961 万热度元数据脱敏只入 README 记账零入卡面·知乎源线第 21 用）+BigLife 台词池 ceo_order 桶三轴位 verbatim（求新「新图纸一出，赶紧动手画！」／怀旧「脑塔一亮，今儿可有新鲜事？」／侠气「白光一闪，心跳跟着快了几拍」·单桶纪律三轴·R2348 fleet CLEAN 预查+R2349 collide 复扫零拒=tech#191 防线 PASS）+**收束行=tech#212 裁决执行·收束源体裁升格首件**（C-00021 王多多〔像素小学学生·信使小跟班〕经历域家人语 verbatim「跟版本一起长的娃」——题眼级直配=版本字面〔V4.1 Flash 新版本发布×跟版本一起长=版本代际成长的城民原型·新模型于他不是新闻是同代人〕·其信条位「放学别走」=REACT v1-v22 轮换律池底已用位如实注·锚摘句族首开=裁决落地产线首证）；R2348 M0 晨供判读（双候选制第四案：A 8/8 入选〔钩 2/情 2/时 2/台 2·ceo_order 桶字面原生对位〕·B 流浪地球3 7/8 台 1 回退留痕·回避 17 条在案）+R2349 生产腿 M0-M4（M1=m1-assert-r2349 ALL GREEN〔热点 verbatim 全题+ceo_order 桶三轴 verbatim+收束句逐字+池底纪律断言〕+collide_scan PASS〔tech#212 判据①达成〕·M2=lcard_m2.py 正身 ALL-HORIZ PASS〔h2=40 自动档·驱动行 19.00em 余 +4.00em·subs 首跑 24.55em 超预算→删「皆」字 23.55em 复渲过=em 门有牙实录〕·poster 229,261B·mp4 3.400s==expected 112,214B·验图五检 5/5〔多模态转写逐字全中·零截断零重叠·AIGC 角标左上位·来源行闭合〕·M3 四禁零中·M4 四检过〔脱敏=热度元数据零入卡面·零自然人具名·零竞品断言〕），R2350 收官 M4.5+E4 回填窗判读+F-196 登记（M4.5 七席=4×9+3 N/A 维度复用=PASS 放行候选·本轮独立复核复验图过〔多模态转写 8 行逐字全中+ffprobe 独立读数 1080×1080·30fps·3.400s+零音轨断言〕·评审单 review-20261018-mcreact-v23.md）；**E4 参考仪=7.5/10 回填窗落地（R2367）**——全面开工令 resume 2026-10-18T23:46:58（machine-state.flag 实读）+:8090 /v1/models 200 实测→src/e4_ref_call.py 同窗直飞（判词=会停看会收藏未必转发·加分=技术新闻拟人化场景包装·扣分=免责声明割裂 -2+虚构档案直白 -1+怀旧轴平淡·REACT 近窗最佳 v21 8.0/v22 5.0→v23 7.5·tech#212 收束源升格首件过线·净本 20261019-000220-E4-audience.md+auto-ledger 落档）·双态制非拦截席=M4.5 放行候选不翻案（假绿灯律执法=已测/未测面分行列明·F-180..185 追加回填先例同型·v24/v25 收官范式承继）；mp4 在 renders 正位（mc-20261018-react-v23-card.mp4·112,214B·ffprobe 1080×1080·30fps·3.400s·纯视频零音轨=静态帧路）；成品只入库·发布=M5 账号物理件+M4 全绿+AIGC 显著标识（未上线=未测量）。
 
 **F-197 登记（R2369）**：**L-卡 REACT 热点城市反应版系列第二十四件=成品库第一百九十八件·L-卡第一百四十五件**（MC-20261019-REACT-v24《城市速报 024·柠檬奶之问》·#59 按日热点随轮领第二十四续件·R309 双律复用·bigstream-lcard-pipeline 技能产线第三十八次调用）：素材源=知乎热榜 2026-10-19 第 4 条全题 verbatim（「杭州21岁大三女生摆摊卖柠檬奶，一年开出20家门店，月营业额超100万，她成功的因素有哪些？」·291 万热度元数据脱敏只入 README 记账零入卡面·知乎源线第 22 用）+BigLife 台词池 ceo_order 桶三轴位 verbatim（求新「啥新鲜玩意儿又上架了？」／烟火「白茫茫的光，包子铺都得开张了」／侠气「城主一声令，咱这买卖就能赚翻天」·单桶纪律三轴·R2368 fleet CLEAN 预查+collide 复扫零拒=tech#191 防线 PASS）+收束行=tech#212 层1 摘句族第二件·年轮行位首开（C-00010 顾阿凤·数据粥铺摊主·年轮行 2026-09-23 verbatim 摘句「头几家客倌真灵额，一早就来捧场」=题眼级直配：成功因素之问×客倌捧场答案·同摆摊职业域原生视角）；生产链=R2368 M0 晨供判读（双候选制第五案：A zhihu#4 291 万 7/8 A 档入选／B zhihu#7 九号自动驾驶 178 万台 1 回退留痕·回避 16 条在案〔法国骚乱政治敏感面首避·榜首 4131 万不豁免〕）+R2368 M0-M4 生产腿（m1-assert-r2368 ALL GREEN〔热点拆行字符保全 HOT1+HOT2==HOT_FULL+三轴池内 verbatim+收束摘句+热度纪律〕+collide_scan PASS+lcard_m2 正身 em-check-r2368 ALL-HORIZ〔h2=32 自动档·驱动行 27.00em 余 +1.75em〕·poster 237,631B·mp4 3.400s==expected 121,466B·验图五检 5/5〔多模态转写 10 行逐字全中〕·M3 四禁零中·M4 四检过〔脱敏=热度元数据零入卡面·当事主体泛指零具名·零商业断言〕），R2369 收官链=**红队试点 3 首签**（dept-review §8 v1.7 首个 F-登记轮执法·独立子代理物理上下文隔离·问题清单 P0×0/P1×2/P2×7+绿队三响应对照全裁·**侠气轴半对位=E4+红队双源同位发现**如实注记缺陷〔编辑映射面·非事实/红线/verbatim 缺陷〕→tech#225/#226 整改种子承载）+**三问检项首卡执法**（dept-review v1.8·E1/E2/E3 席必答俗吗烂吗/有想法吗/上头吗全落）+**制监位判读=判负留痕**（main#135 ②腿·冗余裁定=红队红签承载对抗审查职能·CEO 效率平衡律·呈 CEO 面激活保留〔M5 发布案/CEO 点名=SUPERVISOR-REVIEW 件先行缺签禁呈〕）+M4.5 七席（4×9+3 N/A 维度复用=PASS 放行候选·评审单 review-20261019-mcreact-v24.md）+E4 参考仪 brain lane 同窗落地 **6.5/10**（:8090 qwen3.6-35b·src/e4_ref_call.py·判词=会停看不转发·扣分侠气轴逻辑断裂 -2+转发社交货币弱·**三问语境作答面首用**〔五件套 §六〕·REACT 带 v21 8.0/v22 5.0/v23 7.5→v24 6.5 带中位·净本 MC-20261019-REACT-v24-tmp/e4-result.json+auto-ledger 落档·双态制非拦截席不翻案）+版本数=1·修复轮=0·重渲 0·烧费 ¥0·人时≈2 轮（五件套 §三/§四 首卡执法行）；mp4 在 renders 正位（mc-20261019-react-v24-card.mp4·121,466B·ffprobe R2369 独立读数 1080×1080·30fps·3.400s==expected·字节精确·纯视频零音轨=静态帧路）。成品只入库·发布=M5 账号物理件+M4 全绿+AIGC 显著标识（未上线=未测量）。
+
+**F-198 登记（R2372）**：**L-卡 DIGEST 盘点形态系列第二十六件=成品库第一百九十九件·L-卡第一百四十六件**（MC-20261019-DIGEST-v26《城市盘点 026·一日打磨日（10-18 全天—10-19 凌晨）》·#67 触发律=orders rows 545-583 巨簇 39 行同日簇闭合〔row 583 V5.9 出片回执收口〕·main.md #137 R2368 双成品位 GO 腿·bigstream-lcard-pipeline 技能产线调用）：素材源=10-18 全天—10-19 02:18 一日打磨日令批台账 rows 545-583（host=集团正源同源读·v25 深夜治理夜窗 rows 540-544 后新落面零重复）；deck 五引文=CEO 原话连续子串 verbatim 照录（mid-sentence 截段带省略号标记+引号内标点照录不增删+每条引文行内落点短语——**整改轮 1 修法四件后纪实合约修复实证**·m1-assert-r2372 ALL GREEN〔快照重抽 39 行连续+A2 精确行匹配+A2c 引号内零句号断言+A6 扩展 deck+烧录来源行双面〕）·数字链 8 项台账可溯（026/10-18/10-19/V5.4→V5.9/14→6/≤3/12 环节/02:18）；红绿双签链=**红队回合 4 打回**（P1×1 引文截段合约破防·F-198 冻结·整改轮 1 立项）→**回合 5 续审席红签过**（前席 completed_partial 死于 verdict 落盘前→续审席预载+补扫=2026-10-15 机队判例正法·P0×0/P1×0/P2×1〔P2=msyh U+2026 字形贴基线六点=字体级常量接受非拦截〕·绿队对照=P1 零存活）+M4.5 七席 4×9+3N/A PASS（desk-audit 重走+三问检项全落）+E4 参考仪 5.5/10 维持（双态非拦截·读者价值轴=tech#228 承载）；版本数=2（≤3 硬线内）·修复轮=1（预算 ≤2 内）·重渲=1·烧费=¥0·人时≈3 轮（R2370 生产腿+R2371 收官打回+R2372 整改收官）；mp4 在 renders 正位（mc-20261019-digest-v26-card.mp4·153,922B·ffprobe R2372 独立读数 1080×1080·30fps·3.800s==expected·纯视频零音轨=静态帧路）·PNG 正身 251,418B。成品只入库·发布=M5 账号物理件+M4 全绿+AIGC 显著标识（未上线=未测量）。

diff --git a/docs/reviews/review-20261019-mcdigest-v26.md b/docs/reviews/review-20261019-mcdigest-v26.md
@@ -67,3 +67,46 @@ src/e4_ref_call.py brain lane 直飞（:8090 qwen3.6-35b·resume 态承继·rc 0
 ## F 登记：未登记——红签不过=登记闸冻结（R2371）
 
 F-198 **未登记**（dept-review §8 v1.7「无红签不得登记出库」·红队回合 4 红签=不过）——整改轮 1 修法后重走收官链再登记（F 号按登记窗实序分配·F-197 在前）；成品只入库不入发布队列（发布锁=M5 账号物理件+M4 全绿+AIGC 显著标识；未上线=未测量）。
+
+# 整改轮 1（R2372·修法四件+重渲重验+收官链重走+红队回合 5 红签过+F-198 登记）
+
+## 修法四件落实（对红队回合 4 P1×1+P2×3 逐条）
+
+①**三截段引文省略号标记**（P1）：deck 行 4/5/6 改「……不要再改这么多版本了」/「给我引入监督和校对的机制……」/「……所有环节 都要有专家……」——句首限定语被删处（「我希望后面的出品」「而且我说过mv的」）带前导「……」·句尾从句被删处（「反复出现同样的问题，」/「不要出现质量不行的东西和问题，」）带尾「……」·em 预算核=最大行 19.00→20.65em（h2=40 档维持·余 +2.35em·**±4em 闸内**）；②**句号纪律统一**（P2〔1〕）：五引文引号内句号全除=原文标点照录（「要高效快速啊 5天搞不定一个」「全面开工」原文无句号·「。」删除）；③**第 7 行落点短语**（P2〔2〕）：「要高效快速啊 5天搞不定一个」后行内紧跟「MV 出片提速」=全卡引文行落点短语满配（editorial_value ②宣称兑现）；④**来源行「台账」词替换+meta 措辞收窄**（P2〔3〕）：来源行「基于硅基城市真实事件（一日打磨日令批台账档案）」→「（一日打磨日令批档案）」+meta form/editorial_value「卡面零内部黑话」收窄为「卡面正文零内部黑话」（deck 正文面声明·A6 断言域=deck 行+烧录来源行双面同查）+attribution_rule/red_line 措辞修正=「引文=CEO 原话连续子串 verbatim 照录（不加字/不换序/不修饰·mid-sentence 截段必带省略号标记·标点照录不增删）」（补「删减」面合约缺口）。
+
+## m1-assert 证据快照重建（m1-assert-r2372.py·ALL GREEN）
+
+.c3-tmp/orders-rows-545plus-r2372.txt 重抽（host orders.md |-行族 rows 545-583·39 行连续·五引文+八数字锚全在窗）+断言升格：A2=deck 行**精确匹配**（五引文行逐行 exact）+核心子串源内 verbatim+截段必带「……」断言+A2c=**引号内零句号断言**（标点照录不增删机器面）+A2b=全句 carry（「我希望后面的出品 不要再改这么多版本了」+新增「而且我说过mv的所有环节 都要有专家」）+A6 扩展=deck+烧录来源行（subs.srt）双面黑话零入+来源行新措辞在位断言——跑=ALL GREEN（deck_quotes=5 exact·numbers=8·window_rows=39·tech#224_face=clean deck+subs）。
+
+## M2 重渲+验图（em-check-r2372·lcard_m2 正身）
+
+h2=40 预算 23.00em ALL-HORIZ PASS（最大行 20.65em 余 +2.35em·subs 21.00em<24.21em）·poster 251,418B rc=0·mp4 3.800s==expected 153,922B（renders 正位覆盖）——验图五检 5/5 复验：多模态 10 行逐字全中（角标+标题+7 正文行+来源行）·零重叠零越界零截断零乱码·省略号三行位置全对（行 4 前/行 5 后/行 6 双端）·**引号内零句号**·来源行新措辞「基于硅基城市真实事件（一日打磨日令批档案）」烧录在位。S2 独立探针=ffprobe 1080×1080·30fps·3.800s==expected·153,922B·video 单流零音轨（R2372 独立读数）。
+
+## M4.5 七席重走（desk-audit·dept-review §6 v1.8 三问检项执法）：≥9 木桶
+
+- **E1 选题 9 维持**（M0 7/8 A 档不变·整改面不触及选材）——三问：俗吗烂吗=不俗（纪实盘点体裁维持）；有自己的想法吗=有（「被连夜打磨的公司」用户视角弧线维持）；大众上头吗=停顿面过维持（一日六版反差链+02:18 闭环扫读钩·E4 5.5 中位读数如实注=tech#228 承载）。
+- **E2 文案 9=合约修复实证**（m1-assert-r2372 ALL GREEN：连续子串+截段省略号+标点照录+落点短语四查全过·红队回合 5 P1×0 零复发=修复有效）——三问：俗吗烂吗=不俗（CEO 原话原生气口维持+零术语墙）；有自己的想法吗=有（tech#224 三修法维持+整改轮省略号纪律=纪实工艺自觉新增面）；大众上头吗=引文链四拍递进维持（六版反差→硬线→机制→出片）·读者价值锚点弱如实注（E4 同旗=tech#228 承载）。
+- **E3 视觉 9 维持**（em ALL-HORIZ PASS+验图五检 5/5 复验+P2-1 省略号字形=字体级常量注记非本卡缺陷）——三问：俗吗烂吗=不烂（系列识别语汇维持）；有自己的想法吗=有；大众上头吗=信息流扫读友好维持。
+- **E5 合规 9**（红线五条+三重标注+脱敏全过——红队回合 5 复证：硬件窗全部成交价〔L1209-L1211〕零入卡·P0 四面全清）。E6/E7/E8 N/A 维度复用——**七席 ≥9：4×9+3 N/A=PASS 放行候选→红签 ex-post PASS=放行候选解冻**。
+
+## 红队回合 5（dept-review §8 强制双签·续审席=机队判例正法）
+
+**执行**：独立子代理直飞（物理上下文隔离）——前席 completed_partial（预算耗尽死于 verdict 落盘前·部分发现可回收）→按 2026-10-15 机队判例（禁烧第三次全档重读）派**续审席**=预载前席遗留两项（省略号字形疑点/行 4 句尾标点疑点）+只补扫剩余六面落盘。**续审席四层独立取证**：码点层（cards.json U+2026×8 字节级核验·渲染链零字符改写）+像素层（1080×1080 逐带实测：省略号点阵 y=79-80% 贴基线·点距 10.6px）+字体层（fontTools 解剖 msyh.ttc：U+2026→贴基线三分点 adv=0.813em·bbox y=-20..234·与 U+002E 同点形）+几何闭环（预测六点左缘 166.4/176.8/…219.8 vs 实测 166/177/…220 吻合）。
+
+**问题清单：P0×0 / P1×0 / P2×1**——
+- **P2-1**：卡面省略号成品字形呈贴基线六点（视觉等同 ASCII 句点连排）非中文省略号居中悬点形态——根因=微软雅黑 U+2026 字形设计（贴基线三分点）·码点层无造假·渲染链直绘属实；附注（不计条）：em 模型将 U+2026 计 0.55em（字体实宽 0.813em）低估——本卡最劣余 +2.35em 吸收（像素实测最右 954px<1000px 预算界零越界）无可见后果；
+- 遗留项 2（行 4 句尾标点疑点）=**驳回**（L1217 原文「」内句尾=了+右引号无句号·前席推测不成立）；其余四引文/数字链六项/来源行+AIGC 角标/黑话/脱敏/版式/史源零编造=**核过全通过**。
+
+**绿队对照（律二）**：P2-1=接受入账非拦截（字体级常量·系列 26 卡同字体同字形·单卡不改字体=系列模板统一律 §5.5·码点 U+2026×2 与 meta 宣称一致=合约文本层无违例）+em 模型低估附注=**tech#230 种子承载**（密排行逼近预算时可致假 PASS 越界的真缺口）；**P1 零存活→红签=PASS**（F-197 先例=P2 不拦红签）。
+
+## E4 参考仪：5.5/10 维持（双态制·非拦截·不重跑）
+
+R2371 落地读数维持——整改轮修法面=纪实合约+版式纪律·不触及读者价值轴（扣分主面=内部流程流水账缺公共话题性/读者价值锚点缺位=tech#228 承载在案·E4 重跑预期同带·双态制非拦截席=省预算如实注）。
+
+## 版本数+成本账（五件套 §三/§四 执法行）
+
+**版本数=2**（初版+整改轮 1 版·≤3 硬线内）**·修复轮=1**（预算 ≤2 内）**·重渲次数=1**（em 40 档首改即过）**·烧费=¥0**（CPU 渲染·poster 零 GPU·红队=子代理上下文零 API token）**·人时≈3 轮**（R2370 生产腿+R2371 收官打回+R2372 整改收官）。
+
+## F 登记：**F-198 已登记（R2372·红签过）**
+
+F-198 登记=**成品库第 199 件·L-卡第 146 件·DIGEST 盘点形态系列第二十六件**（dept-review §8 红绿双签齐：绿=M4.5 PASS+红=回合 5 P0×0/P1×0）——四台账落齐（finished.md F-198 块+renders README v26 行升成品+cards README 收官注+station-reviews R2372 行）；成品只入库不入发布队列（发布锁=M5 账号物理件+M4 全绿+AIGC 显著标识；未上线=未测量）。

diff --git a/state/queue/tech.md b/state/queue/tech.md
@@ -303,4 +303,6 @@
 226. [R2369 补货·红队试点 3 P1/P2 观察位真种子·M5 门内件] **L-卡发布面预检观察位（披露可达性+模板视觉面合并档）**（缺口锚=R2369 红队问题清单：〔e〕P1=AIGC 角标（左上）+底部声明行对半读/平台裁切预览场景不可达·中段引语块零行内虚构标记=误读为真实评论/背书的窗口〔反驳主体已裁：法定双披露在位+声明行明文覆盖收束句虚构归属+行内逐句标记=过度标注面·M4 合规检过〕+〔c〕P2×3 模板级常量=声明行字号倒挂（subs 38>h2 32=系列模板 v1 起常量）/间隔号空格两处不一致/四行引语体同构单调）——执行=M5 发布案窗（CEO 账号物理件门内）预检四件：①公众号信息流预览裁切实测（实证 cut 角标→升角标位或加中段轻标记）②声明行字号/间隔号=visual-spec §5.5 模板修订窗一并判读③四行同构=E4/CEO 观感旗 ≥2 面才动模板（系列模板统一律 §5.5 单卡不改）④红队〔e〕残余=发布文案语境层承载（M5 简介位）——M5 前零动作·判负留痕合法（预检窗内实证无缺口=收口观察位）——CPU 面·M5 发布案窗随轮领
 227. [R2370 补货·tech#224 收口伴生真种子] **受众翻译闸 A6 断言产线化候选（单卡位→四形态通用闸）**（缺口锚=R2370 DIGEST-v26 首用=A6 黑话零入面断言只活在本卡 m1-assert-r2370.py 单件位·QUOTE/REACT/CENSUS 三形态卡面无同闸=同一受众面缺陷可在他形态复发〔tech#224 病根=形态级非单件级·E4 判词「自嗨型内部档案面」〕）——候选修法=lcard_m2.py 渲染前通用黑话面断言（jargon 表=m1-assert A6 词面集〔正典/台账/闸/席/XFS/assert/bit-acc〕+城市术语表 diff 计数位〔tech#224 判据①原案〕·FAIL=拒渲+断言留档）——判据先立 ≤3 问=①jargon 表机械可核②REACT 收束行/轴选句面零误伤（台词池 verbatim 引号句 vs 黑话词面碰撞实测）③单轮 CPU 轻闭——CPU 面·下一件 L-卡（任形态）立卡窗随轮领（与 tech#225 REACT v25+ 试点同窗可并裁）
 228. [R2371 补货·E4 v26 判负留痕真发现种子·tech#224 判据②收口伴生] **DIGEST 形态读者价值锚点修法位（语境层之上的体裁层）**（缺口锚=R2371 E4 v26 5.5/10 判词实读：三修法已尽效——黑话零旗+指代悬空零旗+「数字逻辑闭环完整」明判，但扣分主面换轴=「内部流程流水账缺公共话题性/读者为什么要在意/缺普遍性情绪锚点〔职场疲惫·效率与质量博弈〕」——E4 DIGEST 带五读 5.5/2.0/5.5/1.0/5.5=语境翻译闸射程外的新病根面·体裁级非文案级）——候选修法=①M0 立卡判读增「读者价值锚点」预检问（这条盘点给非本公司读者什么：情绪共鸣/反差趣味/知识增量——三无一=判负或包装层补位）②选材包装层候选（盘点叙事收尾加一行普遍性情绪提炼句·不改动纪实 verbatim 主体）③判负留痕合法（真无可修=DIGEST 形态收缩为内部档案位·tech#224 ③同位注记）——判据先立 ≤3 问=①锚点预检问可判读（CPU 面）②下窗 DIGEST 样卡 E4 对照读数 ≥v26 5.5+2 才推广③单轮 CPU 可出评估案——CPU 面·下一件 DIGEST 立卡前随轮领（与 tech#227 A6 断言产线化同窗可并裁）
-229. [R2371 补货·红队回合 4 P1 承接真种子·对抗审查首产闸升格件] **L-卡引文截段省略标记律候选（系列级修法位）**（缺口锚=R2371 红队回合 4 P1 实锚：DIGEST-v26 3/5 引文=mid-sentence 截段零省略标记·句首限定语被删〔「我希望后面的出品」「而且我说过mv的」〕=表愿改呈裸指令·「verbatim 照录」纪实合约破防——系列在册纪律只覆盖「头段连续子串字节等」（v23 评审单明载）·mid-sentence 截段+零标记=纪律射程外真缺陷；attribution_rule 措辞（不加字/不换序/不修饰）未覆盖「删减」面=合约措辞缺口）——候选修法=①attribution_rule 措辞修正（「不删减或截段必标『……』」）②m1-assert 增省略号断言（截段引文首尾标记在位性）③断言库挂引文形态位（头段=免标·中段=必标）——判据先立 ≤3 问=①措辞修法单轮 CPU 可落（cards.json meta 模板）②v26 整改轮首用样卡对照（红队重审零 P1 复发=闸升格判据）③存量已登记件不追溯（系列模板统一律 §5.5·登记面冻结）——CPU 面·v26 整改轮同窗领（与 main#137 整改轮联动勿重复立项）
+229. [R2371 补货·红队回合 4 P1 承接真种子·对抗审查首产闸升格件] **L-卡引文截段省略标记律候选（系列级修法位）**（缺口锚=R2371 红队回合 4 P1 实锚：DIGEST-v26 3/5 引文=mid-sentence 截段零省略标记·句首限定语被删〔「我希望后面的出品」「而且我说过mv的」〕=表愿改呈裸指令·「verbatim 照录」纪实合约破防——系列在册纪律只覆盖「头段连续子串字节等」（v23 评审单明载）·mid-sentence 截段+零标记=纪律射程外真缺陷；attribution_rule 措辞（不加字/不换序/不修饰）未覆盖「删减」面=合约措辞缺口）——候选修法=①attribution_rule 措辞修正（「不删减或截段必标『……』」）②m1-assert 增省略号断言（截段引文首尾标记在位性）③断言库挂引文形态位（头段=免标·中段=必标）——判据先立 ≤3 问=①措辞修法单轮 CPU 可落（cards.json meta 模板）②v26 整改轮首用样卡对照（红队重审零 P1 复发=闸升格判据）③存量已登记件不追溯（系列模板统一律 §5.5·登记面冻结）——CPU 面·v26 整改轮同窗领（与 main#137 整改轮联动勿重复立项）〔R2372 实证注：判据②已达成=红队回合 5 续审席 P1×0 零复发·修法①②已落 v26 样卡（attribution_rule 措辞修正+m1-assert-r2372 A2 截段省略号断言）=样卡面实证·系列模板级推广（修法③断言库挂引文形态位=四形态通用）开放待领〕
+230. [R2372 补货·红队回合 5 P2 附注真种子·em 计量精度修法位] **em 模型字形 advance 精度修法位（U+2026/U+2014/U+2192 低估族）**（缺口锚=R2372 红队续审席 fontTools 四层取证：msyh U+2026 字体实宽 adv=1666/2048=0.813em vs 渲染 em 模型计 0.55em=每字低估 0.263em·U+2014/U+2192 同族低估——v26 本卡最劣余 +2.35em 吸收零后果〔像素实测最右 954px<1000px 预算界〕·但密排行逼近预算时低估=假 PASS 越界风险面）——候选修法=fontTools 读 msyh cmap 实际 advance 替换 em 模型字形表常量（U+2026/U+2014/U+2192 三码位起步·CPU 单轮可落）——判据先立 ≤3 问=①改后 em-check 对 v26 复测读数只变紧不变松（保守面方向）②构造预算-0.2em 内极限行实测像素界内 PASS/FAIL 与新模型一致③纯脚本零 API。CPU 面·下窗随轮领
+231. [R2372 补货·整改轮实弹真种子·断言可复现性修法位] **m1-assert 证据快照回退腿（.c3-tmp 删除惯例 vs 断言可复现性冲突）**（缺口锚=三连实录：R2369 同型「断言复跑 FileNotFoundError 不可复现如实注」+R2371 整改计划「快照重建」+R2372 整改实做手工重抽=.c3-tmp 证据件随轮删净惯例〔v25 先例〕与断言永久可复现诉求冲突——每卡断言在轮末后即成死件·整改/复审计都要重抽）——候选修法=m1-assert 加快照缺位回退腿（.c3-tmp 快照缺失时进程内直读 host orders.md 按 |-行族重抽行窗 rows N-M·5 行逻辑·与 group_scan orders_row_stats 同源行定义）=断言永久可复现零仓膨胀零跨仓写——判据先立 ≤3 问=①删快照后复跑 ALL GREEN ②行窗定义与 orders_row_stats 同源（|-行族·行数锚一致）③纯脚本单轮。CPU 面·下窗随轮领（与 tech#227 A6 断言产线化同窗可并裁）
